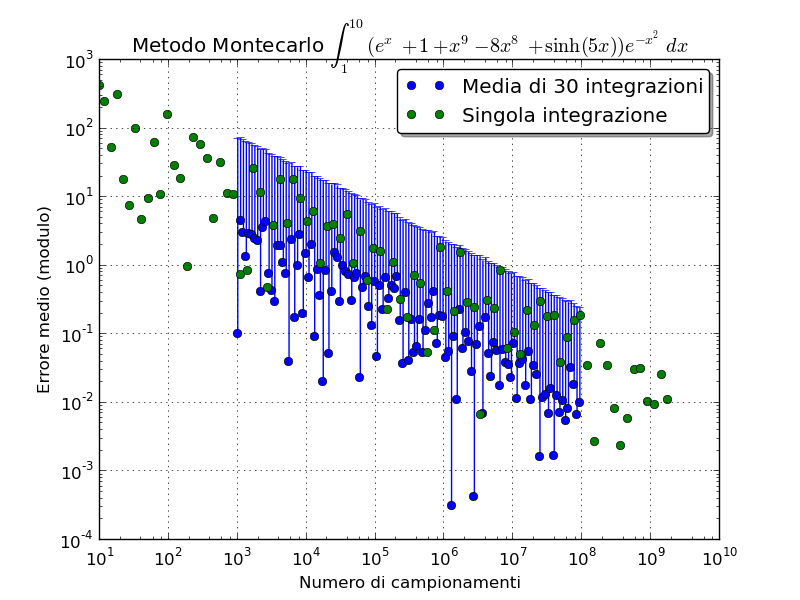
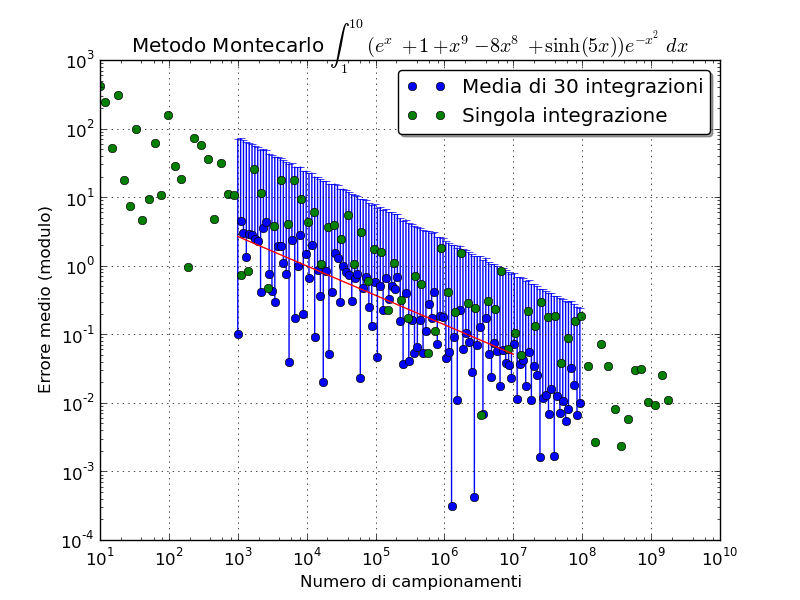
so much stuff

diff --git a/relazione/tex/relazione.tex b/relazione/tex/relazione.tex
@@ -3,6 +3,7 @@
 \usepackage[italian]{babel}
 \usepackage{amsmath}
 \usepackage{graphicx}
+% \usepackage{fullpage}
 
 %opening
 \title{Relazioni dal laboratorio di calcolo}
@@ -83,7 +84,7 @@ Quando un calcolatore deve eseguire una somma, procede nel seguente modo:
 \end{itemize}
 
 Da questo processo si vede chiaramente come si ha una grossa perdita di precisione nel caso di somme di numeri di ordini di grandezza molto diversi tra loro. Quando infatti la differenza tra gli esponenti è dell'ordine di grandezza della precisione della mantissa, il contributo del numero più piccolo si perde nell'arrotondamento.
-
+9zpf6mkofteny953w
 Questo concetto sarà ulteriormente chiarito nel prossimo esercizio.
 
 \subsubsection{La serie di Eulero}
@@ -312,12 +313,133 @@ Essendo questa una funzione molto ostica per un metodo montecarlo (in quanto gli
 
 \includegraphics[scale=.5]{../images/montecarlo-comparison.png}
 
-È interessante notare come tutti i valori delle integrazioni singole rientrino comunque entro l'incertezza blah.FIXME
+È interessante notare come tutti i valori delle integrazioni singole rientrino comunque entro l'incertezza calcolata a posteriori.
+
+Un fit con la funzione $$y=\frac{A}{N^B}$$ mostra che l'errore scende con esponente $B\simeq 0.43\pm 0.02$, sufficientemente vicino al valore teorico di $0.5$.
 
 \subsection{Ago di Buffon}
+Una nota applicazione di tecniche di integrazione Montecarlo è il cosiddetto \emph{ago di Buffon}. Questa tecnica è in realtà la simulazione a calcolatore di un metodo fisico per il calcolo del pi greco.
 
-\section{Integali di Feynman}
+Si considerino un ago lungo $L$ ($<1$) e un listello di lunghezza unitaria. Il metodo per calcolare il valore di $\pi$ consiste nel contare il numero di volte in cui l'ago tocca il bordo del listello rispetto al numero totale di lanci.
+
+Chiamando $x$ l'angolo che l'ago forma con il bordo del listello, e $y$ la distanza verticale dal bordo inferiore, è chiaro che l'ago tocca il listello quando vale una delle due condizioni:
+$$y < \frac{L}{2}\sin(x) \quad\vee\quad y > 1-\frac{L}{2}\sin(x) $$
+Definiamo ora una funzione ``indicatrice'' $f(x, y)$ che valga 1 quando la condizione appena enunciata è verificata e 0 altrimenti. Il suo integrale è legato al valore di $\pi$ dalla seguente relazione:
+$$I=\frac{2L}{\pi}$$
+$$\sigma^2 = \frac{2L}{\pi} (1 - \frac{2L}{\pi})$$
+Notiamo che sia $x$ che $y$ sono estratte con distribuzione piatta tra $[0, \pi]$ e $[0,1]$.
+
+Variamo la lunghezza dell'ago e verifichiamo che la teoria venga effettivamente rispettata.
+
+\includegraphics[scale=.5]{../images/buffon.png}
+
+\section{Integali di cammino}
+\subsection{Le catene di Markov}
+
+Le catene di Markov sono un meccanismo per ottenere variabli casuali con distribuzioni di probabilità arbitrarie.
+
+Una catena di Markov è una serie di estrazioni che è caratterizzata dal fatto che ogni estrazione successiva alla prima dipende solamente dallo stato precedente del sistema.
+
+Dato $E_k = (x_{1_k}, \dots, x_{n_k})$, uno stato del sistema nello spazio delle fasi, definiamo:
+\begin{itemize}
+ \item $P_{jk}$ come la probabilità di estrarre lo stato $E_k$ a partire dallo stato $E_j$.
+ \item $a_k$ come la probabilità di ottenere lo stato $E_k$ alla prima estrazione.
+\end{itemize}
+
+Denotiamo inoltre con $f^{(n)}_{jk}$ la probabilità del sistema di passare dallo stato $j$ allo stato $k$ in $n$ passi.
+
+È possibile fare ogni tipo di calcolo sulla catena di Markov se si conosce $P_{jk}$ per ogni $j$ e per ogni $k$. Possiamo allora pensare di descrivere le transizioni della catena di Markov attraverso una matrice, detta anche \emph{matrice stocastica}. Notiamo come questa matrice abbia alcune ovvie proprietà:
+$$1\geq P_{jk} \geq 0\qquad \forall j \forall k$$
+$$\sum_k Pjk = 1$$
+
+Introduciamo il concetto di catena \emph{irriducibile}, che sarà il tipo di catena che ci interesserà. Una catena di Markov si dice irriducibile se tutti e soli i suoi stati formano un sistema chiuso, ovvero un insieme di stati per cui non è possibile raggiungere alcuno stato al di fuori di esso partendo dall'interno.
+In simboli, detto $A$ l'insieme di stati chiuso, ed essendo $E_k\in A$:
+$$P_{kl} = 0 \quad\text{se}\quad l\not\in A$$
+
+La probabilità di ottenere lo stato $E_k$ dallo stato $E_j$ una volta dopo un numero qualunque di passi è ovviamente dato da:
+$$f_{jk} = \sum_{n=1}^\infty f_{jk}^{(n)} $$
+e definiamo anche il tempo medio per ritornare nello stato $E_j$ come
+$$\mu_j = \sum_{n=1}^\infty n f_{jj}^{(n)}$$
+
+Terminiamo le nostre definizioni con alcune classificazioni per gli stati. Uno stato $E_j$ si dice \emph{persistente} se vale $f_{jj}=1$ e \emph{transiente} se $f_{jj}<1$. Se $E_j$ è persistente, viene detto \emph{nullo} se il tempo medio per ritornare $\mu_j = +\infty$, ed \emph{ergodico} altrimenti.
+
+Uno stato \emph{ergodico} è dunque uno stato persistente, non nullo e a-periodico.
+
+Gli stati ergodici sono gli unici che ci interessano, nel senso spiegato dal seguente teorema:
+\begin{itemize}
+ \item Sia $E_j$ uno stato di una catena di Markov. $E_j$ è \emph{transiente} se e solo se:
+ $$\sum_{n=0}^{+\infty} P^{(n)}_{ij} < +\infty\qquad \forall i$$
+ 
+ \item Sia $E_j$ uno stato di una catena di Markov. $E_j$ è \emph{persistente} e \emph{nullo} se e solo se:
+ $$\sum_{n=0}^{+\infty} P^{(n)}_{jj} = +\infty $$
+ $$\lim_{n\to+\infty} P^{(n)}_{ij} = 0 \qquad \forall i$$
+ 
+ \item Sia $E_j$ uno stato di una catena di Markov. $E_j$ è \emph{ergodico} se e solo se:
+ $$\sum_{n=0}^{+\infty} P^{(n)}_{ij} = \frac{f_{ij}}{\mu_j} \qquad \forall i$$
+ 
+\end{itemize}
+
+Gli stati ergodici sono gli unici per i quali esiste finito un limite per $P_{jk}$ che sia indipendente dallo stato iniziale, e dunque ci permettono di costruire una distribuzione di probabilità ben definita.
+
+\subsection{L'algoritmo di Metropolis}
+Con l'algoritmo Metropolis si possono generare facilmente catene di Markov. Il metodo non è il più efficiente conosciuto, ma è sufficientemente comodo per la nostra applicazione.
+
+La creazione della catena si basa sulla generazione casuale di stati, che vengono iterativamente accettati o rigettati fino ad ottenere la distribuzione di probabilità cercata.
+
+Supponiamo di avere un problema fisico per il quale si ha bisogno di una distribuzione di probabilità $R$. Dunque, data una catena di Markov in un generico stato $E_j$, creiamo uno stato di prova $E_{j+1}$ con una trasformazione qualunque.
+Il nuovo stato $E_{j+1}$ sarà accettato con probabilità $P = \max(1, R_{j+1}/R_j)$, dove $R_i = R(E_i)$. Iterando questo procedimento si ottiene la distribuzione di probabilità voluta.
+
+\subsection{La propagazione degli errori automatizzata}
+Una volta ottenuta la distribuzione cercata, e isolati degli osservabili $a_i$, è spesso necessario valutare alcune funzioni $f(a_i)$ degli osservabili stessi. Questo può essere problematico nel momento in cui cerchiamo di propagare l'errore statistico dell'osservabile, specialmente nel caso in cui sia complicato automatizzare il calcolo delle derivate di $f$.
+
+Per ovviare a questo ostacolo, si utilizza un metodo matematico chiamato \emph{metodo di Jacknife}.
+Questo metodo consiste fondamentalmente in un cambio di variabili. Dati $a_1,\dots,a_N$ degli osservabili di valor medio $\bar{a}$, definiamo
+$$a^k := \frac{1}{N-1}\sum_{i=1}^N(a_i-a_k) = \bar{a}-\frac{a_k-\bar{a}}{N-1}$$
+
+Queste nuove variabili $a^k$ hanno due interessanti proprietà.
+$$\left<a^k\right> = \bar{a} $$
+$$\text{Var}(\left<a^k\right>) = \text{Var}(\bar{a}) $$
+e se definiamo
+$$f^k:=f(a^k)$$
+non solo
+$$\left<f^k\right> = \bar{f}$$
+ma anche
+$$\text{Var}(\bar{f}) = \frac{N-1}{N} \sum_k (f^k-\bar{f})^2 = \text{Var}(\left<f^k\right>)$$
+dunque evitando il calcolo delle derivate. Infatti se non avessimo effettuato il cambio di variabile:
+$$\text{Var}(\bar{f}) = \text{Var}(\bar{a})\left(\frac{\partial f}{\partial a}\right)^2 $$
+
+\subsection{Oscillatore armonico}
+Utilizziamo la teoria descritta fin qui per calcolare i livelli energetici di un oscillatore armonico con gli integrali di cammino di Feynman. Poniamo per semplicità $m, \hbar$ e $\omega$ pari a 1.
+Siano $i_1$ e $i_2$ due punti di un reticolo temporale con passo $a=1$ e composto di $N$ elementi.
+Utilizzando la teoria del \emph{path integral} di Feynman, sappiamo che il correlatore è definito come
+$$ \left<x_{i_1},x_{i_2}\right> = \frac{1}{Z}\int\prod_{i=0}^{N-1}dx_i\,e^{-S}x_{i_1}x_{i_2} $$
+con $S$ funzionale dell'azione, che esplicitamente è pari a
+$$ S = a\sum_{i=0}^{N-1} \left[ \frac{m}{2} \left( \frac{x_{i+1}-x_i}{a} \right)^2+V(x_i)\right]$$
+
+Calcoliamo i correlatori utilizzando una catena di Markov e tutta la teoria vista fin qui per estrarre elementi con distribuzione di probabilità $e^{-S}/Z$. Ricordiamo che, dato uno stato della catena $E_j$, il correlatore su quello stato è dato da
+$$c_t=\frac{1}{N}\sum_{i=0}^{N-1}x_{i+t}x_i$$
+dove $N$ è sempre il numero di passi reticolari.
+
+La catena di Markov che abbiamo costruito con l'algoritmo del Metropolis dovrà però \emph{termalizzare} prima di essere pronta per poter calcolare i correlatori, ovvero dovrà stabilizzarsi intorno a un certo valore. Facciamo notare che aspettiamo la termalizzazione soltanto per ridurre l'errore che effettivamente commettiamo (aumentando l'efficienza del nostro algoritmo), il metodo rimane infatti valido anche considerando ogni \emph{sweep}, in quanto il contributo dei primi diminuisce a ogni iterazione.
+
+Dobbiamo anche tenere conto del fatto che, per calcolare il \emph{path integral} senza applicare correzioni, le variabili estratte dal nostro generatore di numeri casuali siano decorrelate. Non è questo il caso se prendiamo \emph{sweep} consecutivi delle catene di Markov, ma dobbiamo attendere un numero di sweep sufficienti.
+
+Per valutare il tempo Markoviano necessario alla decorrelazione degli stati, consideriamo la funzione di autocorrelazione
+$$\Gamma(t) = \left<a^ia^{i+t}\right>\left<a\right>^2$$
+dove $a$ è il nostro osservabile ($a=x_ix_j$) $t$ è il tempo Markoviano.
+
+L'andamento di $\Gamma(t)$ è esponenziale, eseguiamo dunque un fit per valutare il tempo entro il quale possiamo assumere le variabili come decorrelate. Il grafico ottenuto è normalizzato in quanto ogni quantità è stata divisa per $\Gamma(0)$.
+
+autocorr.png
+
+Il fit mostra che il tempo di autocorrelazione $\tau$ è circa pari a 30 sweep, da cui consideriamo gruppi di correlatori da 100 sweep. Per ognuno di questi gruppi calcoliamo il correlatore medio (per ogni passo del reticolo), e ricaviamo l'errore utilizzando i cluster Jackknife.
+
+Possiamo calcolare a questo punto il valore $\Delta E=E_1-E_0$ e l'elemento di matrice $\left<E_0|x|E_1\right>$. Calcoliamo soltanto i primi 4 elementi in quanto con il metodo utilizzato l'errore cresce esponenzialmente <FORMULA> all'aumentare della distanza reticolare.
+
+Notiamo che i risultati ottenuti si discostano da quelli che avremmo potuto ottenere risolvendo direttamente autovalori ed autovettodi dell'Hamiltoniana. La ragione di questo fatto consta principalmente nel fatto che i due risultati saranno equivalenti nel limite dei passi del reticolo $N\to\infty$ e $a\to0$.
 
 \section{Calcolo di equazioni differenziali}
+
+include{differenziali.tex}
 
 \end{document}

diff --git a/relazione/integrali-mc.py b/relazione/integrali-mc.py
@@ -58,6 +58,14 @@ plt.savefig('images/montecarlo-con-stat.png')
 ## Plot comparativo
 
 plt.clf()
+
+import scipy.optimize as opt
+def fitter(xdata, *params):
+    return params[0]/(xdata**params[1])
+
+params, pcov = opt.curve_fit(fitter, x, y, p0=[100, .5])
+
+
 plt.errorbar(x, y, xerr=0, yerr=[yerr_lower, 2*errors], fmt='o') #xerr=errors, fmt='.')
 plt.plot(oldx, oldy, 'o')
 #plt.plot(x, y, 'o')
@@ -69,5 +77,11 @@ plt.ylabel('Errore medio (modulo)')
 plt.title(r"Metodo Montecarlo $\int_1^{10} (e^x+1+x^9-8x^8+\sinh(5x))e^{-x^2}dx$")
 plt.legend(('Media di 30 integrazioni', 'Singola integrazione'),
            'upper right', shadow=True, fancybox=True)
+
+#print params
+xin = np.arange(1000, 10e6, 1000)
+yin = fitter(xin, *params)
+plt.plot(xin, yin)
+
            
 plt.savefig('images/montecarlo-comparison.png')

diff --git a/src/agobuffon.cpp b/src/agobuffon.cpp
@@ -28,8 +28,11 @@ AgoBuffon::AgoBuffon()
 {
     m_gen = new boost::random::mt19937(time(0) + getpid());
 
-    for (int i = 1000; i < 10000; i += 1000) {
-        run(pow(i, 2), 1);
+//     for (int i = 1000; i < 10000; i += 1000) {
+//         run(pow(i, 2), 1);
+//     }
+    for (float i = 0.1; i < 1.; i+=.01) {
+        run(100000, i);
     }
 }
 
@@ -49,9 +52,11 @@ void AgoBuffon::run(int n, float L)
         tempcalc += tocco(x, y);
     }
 
-    debug(n);
+//     debug(n);
     picalc = 2*m_L*n/(float)tempcalc;
-    std::cout << picalc << std::endl;
+    float sigma2 = (2*m_L/picalc)*(1-2*m_L/picalc);
+    print(m_L,  sqrt(sigma2), picalc);
+//     std::cout << picalc << std::endl;
 }
 
 inline

diff --git a/src/pathint/pathint.cpp b/src/pathint/pathint.cpp
@@ -75,7 +75,7 @@ void PathInt::exec(int sweepN)
                 gamma0 = variance;
             }
 
-//             print(t, variance/gamma0);
+            print(t, fabs(variance/gamma0));
         }
 
         for (int i = 0; i < m_sweeper->nElements(); i++) {
@@ -115,7 +115,7 @@ void PathInt::exec(int sweepN)
             variance *= (double)(m_sweeper->nElements()-1)/m_sweeper->nElements();
 
 
-            print (t, mean, sqrt(variance));
+//             print (t, mean, sqrt(variance));
         }
 
     }

diff --git a/main.cpp b/main.cpp
@@ -55,7 +55,7 @@ void Esercizi::run(Esercizi::Esercizio tipo)
 int main(int argc, char **argv)
 {
     Esercizi es;
-    es.run(Esercizi::IntDeterm);
+    es.run(Esercizi::PathIntegral);
 
     return 0;
 }
